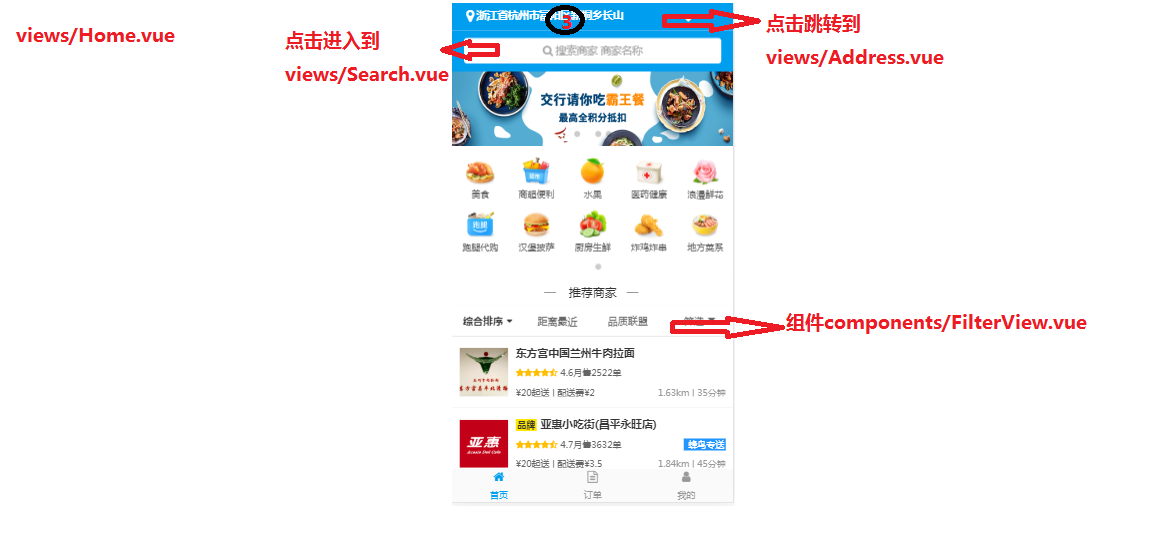
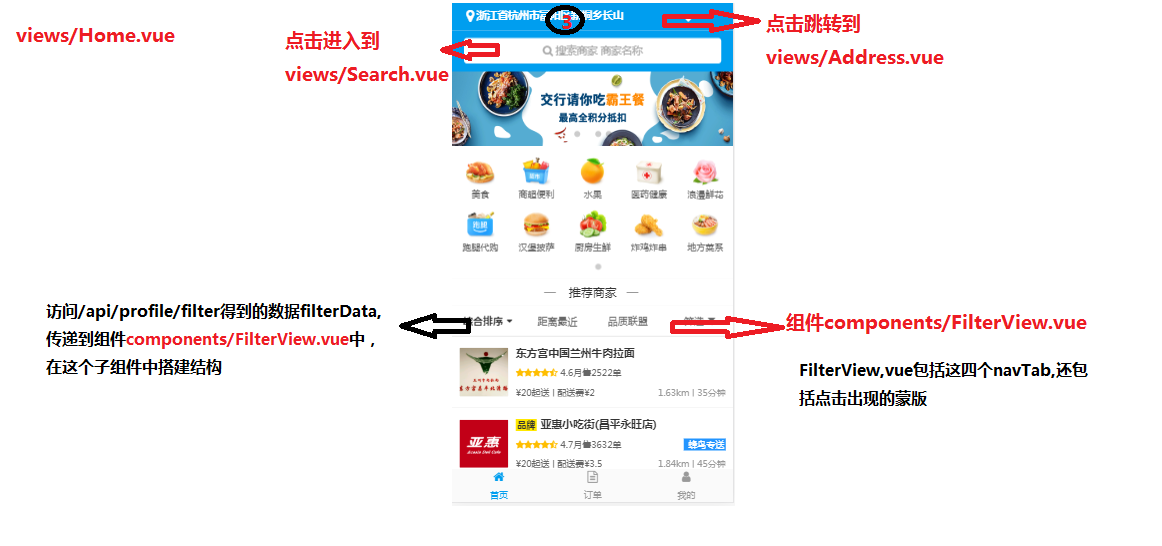
排序及蒙版的实现

Changed region(s): [[0.031, 0.5293, 0.4028, 0.685], [0.6816, 0.6538, 0.9294, 0.7473]]

diff --git a/src/components/FilterView.vue b/src/components/FilterView.vue
@@ -18,6 +18,7 @@
             </aside>
         </div>
 
+
         <!-- 排序 点击综合排序后，出现很多种排序方法(好评优先，销量最高等等)-->
         <section class="filter-extend" v-if="isSort">
             <ul>
@@ -222,6 +223,7 @@ export default {
   will-change: transform;
 }
 
+/* 加粗 */
 .filter-bold {
   font-weight: 600;
   color: #333;

diff --git a/src/views/Orders/MyAddress.vue b/src/views/Orders/MyAddress.vue
@@ -98,7 +98,7 @@ export default {
           .then(res => {
             this.allAddress.splice(index,1)
           })
-        },
+        }, 
         // 点击选择地址
         setAddressInfo(address,index) {
           this.selectIndex = index
